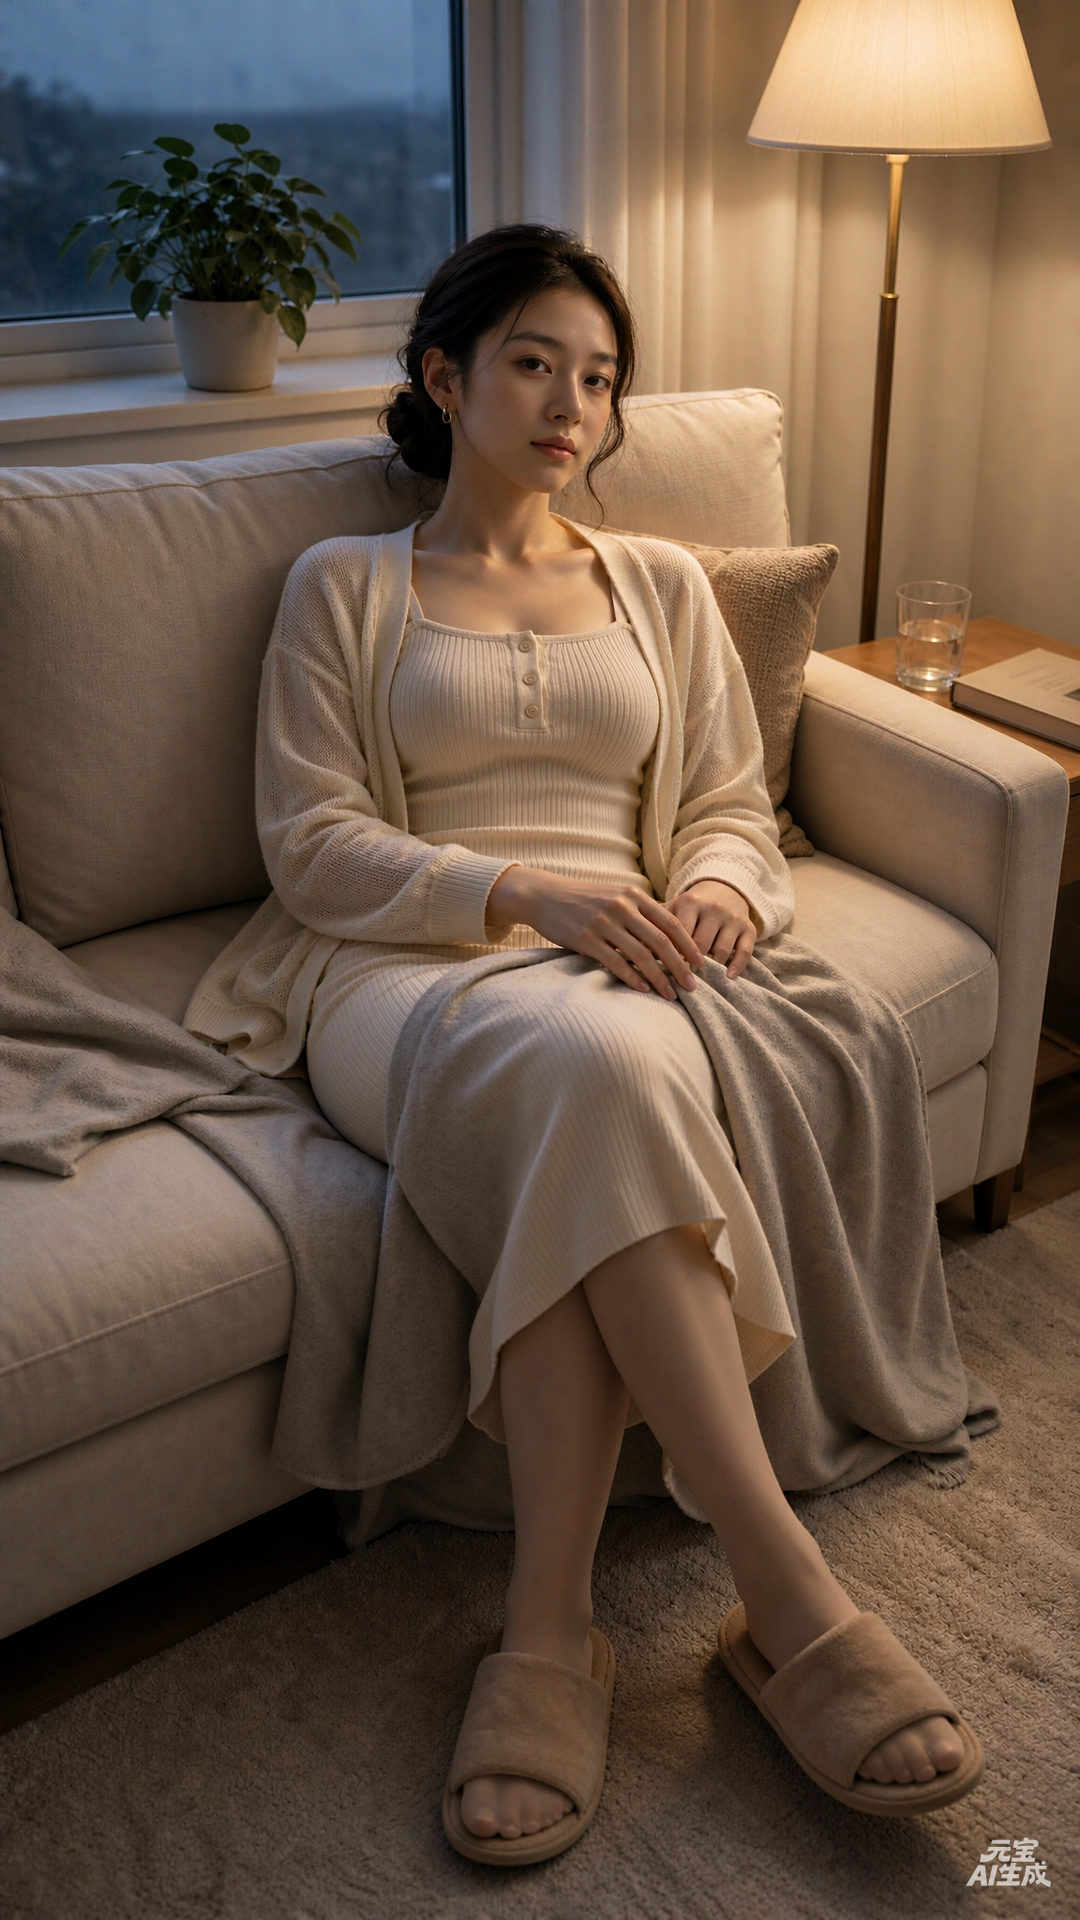
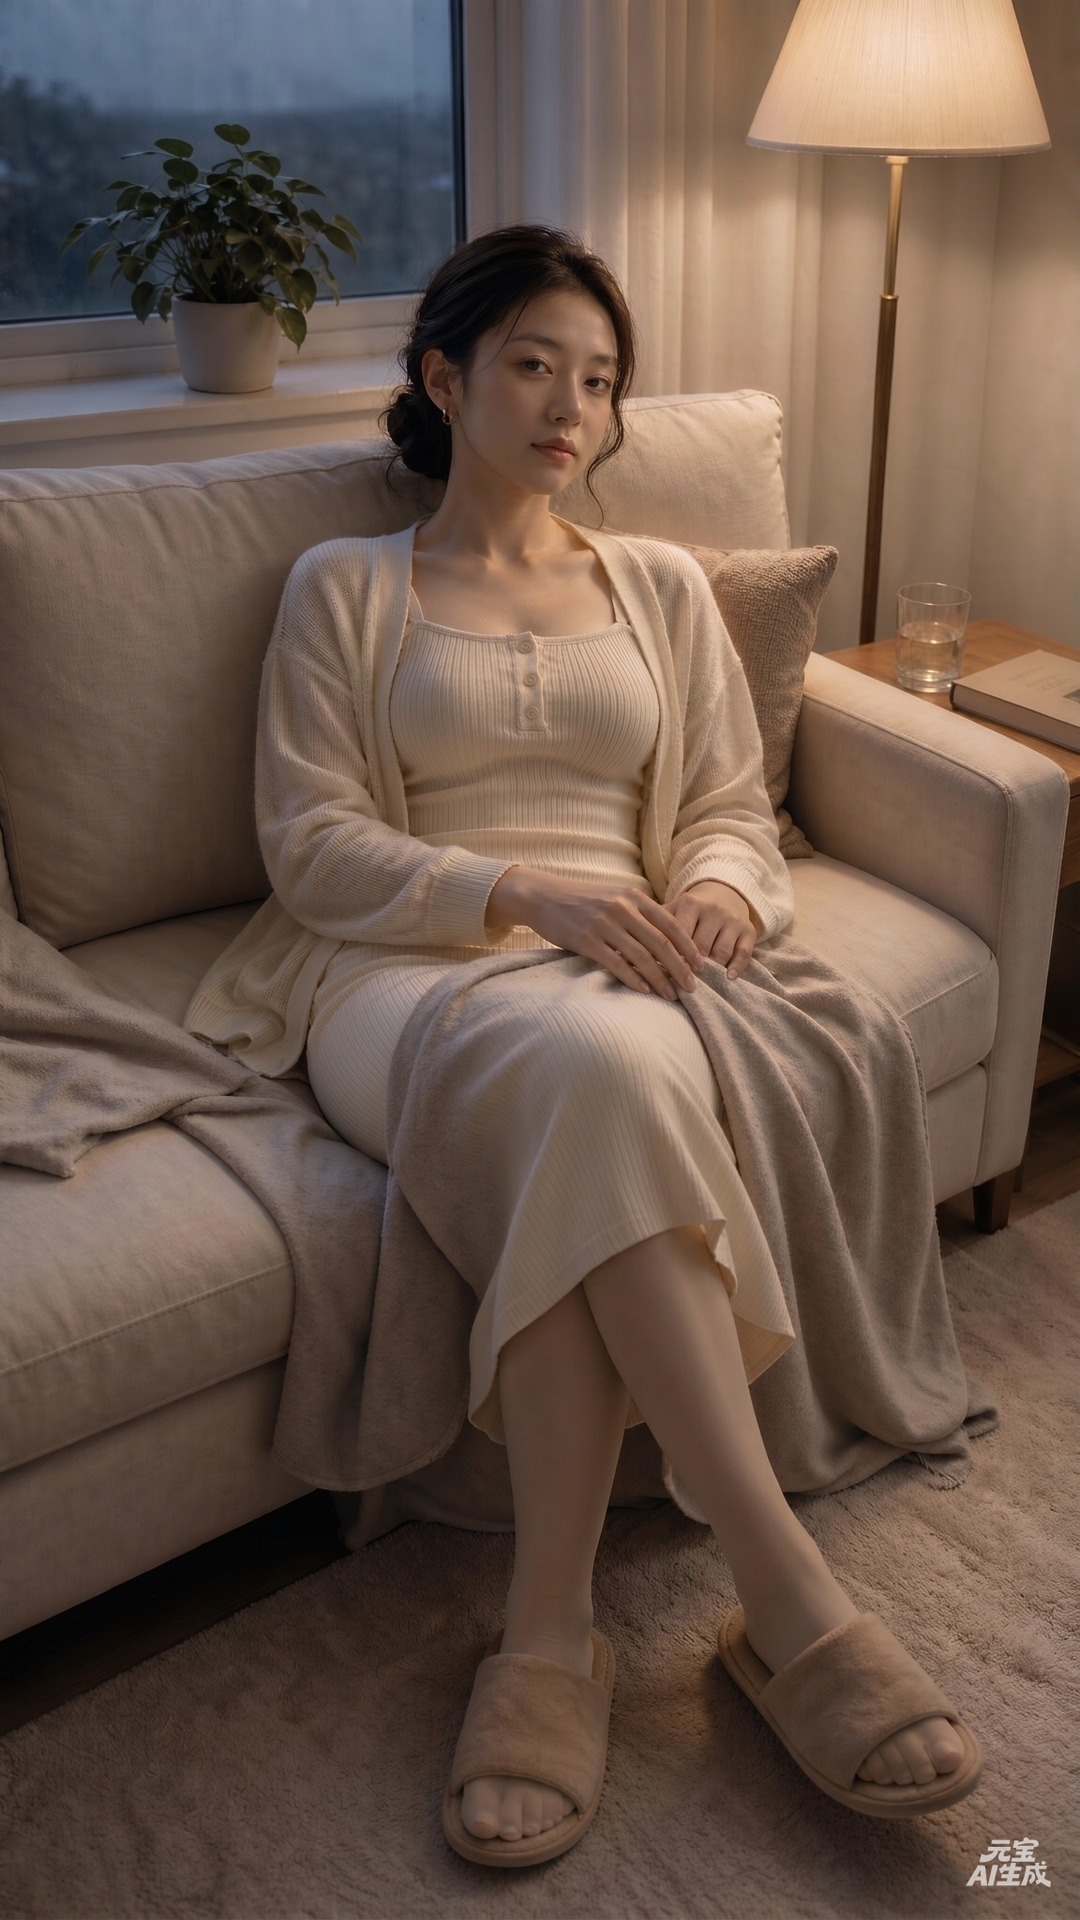
STD-001.2 回扫 18 张 B5-T + R020 04 补销项 | 19图19词+6manifest+6README | source=yuanbao

diff --git a/rounds/20261126j_ferry-lighthouse/04_close.md b/rounds/20261126j_ferry-lighthouse/04_close.md
@@ -15,6 +15,8 @@ ratio: 9:16
 ## 终稿提示词
 
 ```text
+返工复核锚（STD-001.2 B5-T）：丝袜从腿根到脚尖同色连续，脚踝、脚背无横向分界、无袜口、无趾根收边；脚趾由与腿部同色的袜面完整包住，五趾轮廓在袜面里各自分明，露趾鞋与凉鞋前口里袜面一直连到趾尖并与鞋口平顺衔接；四张同一层腿部覆盖、同一双鞋。本张已按此逐字复核并重出。
+
 第一张图定穿搭版型配色面料，第二张图定骨相五官与本轮雾棕齐锁骨松散微卷，第三张图定本张站立骨架与机位（只取低机位的腿线与重心，双手按本文重摆，不取线稿里双手扶腰的动作）；脸、衣、发型、姿势由各自底图承担。本张是对岸芦苇坡上她站定、身子与肩髋朝画面左前的坡顶旧灯塔、机位转到她斜侧约 30 度、只把脸回一半、眼尾从自己左肩底下掠过来落在身后他身上落定不走，右手把透明蓝边托特包贴在右肩侧只露一道蓝边、左手提到腰后高度朝身后他那一侧弯成钩子勾一下指尖。他自己完全在画外、他的手也完全在画外，全画只有她一位清晰成年人物，草径下方空着。
 
 9:16 满幅画面，宽 1080 高 1920，人物与道具铺满整幅，四条边即裁切边。

diff --git a/rounds/20261126j_ferry-lighthouse/02_side.md b/rounds/20261126j_ferry-lighthouse/02_side.md
@@ -15,6 +15,8 @@ ratio: 9:16
 ## 终稿提示词
 
 ```text
+返工复核锚（STD-001.2 B5-T）：丝袜从腿根到脚尖同色连续，脚踝、脚背无横向分界、无袜口、无趾根收边；脚趾由与腿部同色的袜面完整包住，五趾轮廓在袜面里各自分明，露趾鞋与凉鞋前口里袜面一直连到趾尖并与鞋口平顺衔接；四张同一层腿部覆盖、同一双鞋。本张已按此逐字复核并重出。
+
 第一张图定穿搭版型配色面料，第二张图定骨相五官与本轮雾棕锁骨微卷，第三张图定本张侧身站立发丝飘扬骨架与机位（只取侧身站姿的脊线与一前一后两腿，双手按本文重摆）；脸、衣、发型、姿势由各自底图承担。本张是渡轮甲板栏杆边她斜侧约 30 度站着、江风把薄开衫与裙摆往后掀、发丝往后飘，只把脸回一半给他看。他刚从候船长椅站起来还没直完腰，这一眼从他身后侧旁斜着落过去，他自己完全在画外，全画只有她一位清晰成年人物，人在画面里斜着放不居中、膝盖以下裁掉一点。
 
 9:16 满幅画面，宽 1080 高 1920，人物与道具铺满整幅，四条边即裁切边。

diff --git a/rounds/20261126j_ferry-lighthouse/03_seat.md b/rounds/20261126j_ferry-lighthouse/03_seat.md
@@ -15,6 +15,8 @@ ratio: 9:16
 ## 终稿提示词
 
 ```text
+返工复核锚（STD-001.2 B5-T）：丝袜从腿根到脚尖同色连续，脚踝、脚背无横向分界、无袜口、无趾根收边；脚趾由与腿部同色的袜面完整包住，五趾轮廓在袜面里各自分明，露趾鞋与凉鞋前口里袜面一直连到趾尖并与鞋口平顺衔接；四张同一层腿部覆盖、同一双鞋。本张已按此逐字复核并重出。
+
 第一张图定穿搭版型配色面料，第二张图定骨相五官与本轮雾棕锁骨微卷，第三张图定本张扭身站立骨架与机位（只取扭身站姿的肩髋反向与前后脚台阶高差，双手按本文重摆，不取线稿里双臂展开的动作）；脸、衣、发型、姿势由各自底图承担。本张是下船时她在江边石阶上停半步、前脚踩上一级刚好让她从上往下压着他递、身子仍朝石阶上方、只把脸回一半、把一张空白厚纸小方票往身后递，他自己完全在画外、他的手也完全在画外，全画只有她一位清晰成年人物。
 
 9:16 满幅画面，宽 1080 高 1920，人物与道具铺满整幅，四条边即裁切边。

diff --git a/rounds/20261126h_morning-tea-wash/04_close.md b/rounds/20261126h_morning-tea-wash/04_close.md
@@ -15,6 +15,8 @@ ratio: 9:16
 ## 终稿提示词
 
 ```text
+返工复核锚（STD-001.2 B5-T）：丝袜从腿根到脚尖同色连续，脚踝、脚背无横向分界、无袜口、无趾根收边；脚趾由与腿部同色的袜面完整包住，五趾轮廓在袜面里各自分明，露趾鞋与凉鞋前口里袜面一直连到趾尖并与鞋口平顺衔接；四张同一层腿部覆盖、同一双鞋。本张已按此逐字复核并重出。
+
 第一张图定穿搭版型配色面料，第二张图定骨相五官与本轮慵懒低盘发，第三张图定本张姿势骨架与机位；脸、衣、发型、姿势由各自底图承担，第三张图的双手落点按本文重摆；本张是站定、双手齐脸同高把一条浅杏色毛巾按在下半张脸上，两腿站直、不踮脚不仰头、脊线是安静的直线不含后仰、肩线不回转、两肘内收贴肋不外扬、人不迎不避等他先看过来，画顶留给百叶帘缝那一道晨光与毛巾上沿、发顶沉在毛巾下。
 
 9:16 满幅画面，宽 1080 高 1920，人物与道具铺满整幅，四条边即裁切边。

diff --git a/rounds/20261126j_ferry-lighthouse/01_front.md b/rounds/20261126j_ferry-lighthouse/01_front.md
@@ -15,6 +15,8 @@ ratio: 9:16
 ## 终稿提示词
 
 ```text
+返工复核锚（STD-001.2 B5-T）：丝袜从腿根到脚尖同色连续，脚踝、脚背无横向分界、无袜口、无趾根收边；脚趾由与腿部同色的袜面完整包住，五趾轮廓在袜面里各自分明，露趾鞋与凉鞋前口里袜面一直连到趾尖并与鞋口平顺衔接；四张同一层腿部覆盖、同一双鞋。本张已按此逐字复核并重出。
+
 第一张图定穿搭版型配色面料，第二张图定骨相五官与本轮雾棕锁骨微卷，第三张图定本张侧坐伸腿骨架与机位；脸、衣、发型、姿势由各自底图承担，第三张图的双手落点按本文重摆。本张是江边候船亭里她侧坐在旧木长椅上、两腿朝画面右侧伸着、一侧手肘往后撑住看江面，画面左侧留一段晒白的空椅面与旧漆磨痕，他坐的位置空着、他自己完全在画外，全画只有她一位清晰成年人物。
 
 9:16 满幅画面，宽 1080 高 1920，人物与道具铺满整幅，四条边即裁切边。

diff --git a/rounds/20261126h_morning-tea-wash/03_seat.md b/rounds/20261126h_morning-tea-wash/03_seat.md
@@ -15,6 +15,8 @@ ratio: 9:16
 ## 终稿提示词
 
 ```text
+返工复核锚（STD-001.2 B5-T）：丝袜从腿根到脚尖同色连续，脚踝、脚背无横向分界、无袜口、无趾根收边；脚趾由与腿部同色的袜面完整包住，五趾轮廓在袜面里各自分明，露趾鞋与凉鞋前口里袜面一直连到趾尖并与鞋口平顺衔接；四张同一层腿部覆盖、同一双鞋。本张已按此逐字复核并重出。
+
 第一张图定穿搭版型配色面料，第二张图定骨相五官与本轮慵懒低盘发，第三张图定本张姿势骨架与机位；脸、衣、发型、姿势由各自底图承担，第三张图的双手落点按本文重摆；本张是站立俯身对着浅盆洗头、洗到一半，两腿站直、膝不弯不跪，不是拢头发回头看、不是抱头摆拍。
 
 9:16 满幅画面，宽 1080 高 1920，人物与道具铺满整幅，四条边即裁切边。

diff --git a/rounds/20261126t_new-phone-morning/04_close.md b/rounds/20261126t_new-phone-morning/04_close.md
@@ -15,6 +15,8 @@ ratio: 9:16
 ## 终稿提示词
 
 ```text
+返工复核锚（STD-001.2 补销项）：脚上两只奶白软底绒拖、金扣凉鞋只收进柜影里露一只鞋尖；全画只一部正面整面亮屏手机、斜着顶到画框下沿；画顶裁到眉骨以上、只留眼尾到嘴角那一线；24h 奶白菱格提花连裤丝袜整段连包到脚趾、脚背连进绒拖鞋口。
+
 返工复核锚：全画只一部手机，正面整面亮屏朝向画外他那边、举到画框下沿前景、屏光清亮；两只奶白软底绒拖都在脚上，奶白厚底一字带金扣凉鞋收进玄关矮柜下层阴影里只露一只鞋尖；整张脸只留眼尾到嘴角那一线、画顶裁到眉骨以上；画底是叠收的腿、两只绒拖与奶白短绒地毯的软褶；24h 奶白菱格提花连裤丝袜整段连包到脚趾。
 
 第4张 · 他凑到近前、从膝头高度略仰隔 0.3 米看她

diff --git a/rounds/20261126h_morning-tea-wash/02_side.md b/rounds/20261126h_morning-tea-wash/02_side.md
@@ -15,6 +15,8 @@ ratio: 9:16
 ## 终稿提示词
 
 ```text
+返工复核锚（STD-001.2 B5-T）：丝袜从腿根到脚尖同色连续，脚踝、脚背无横向分界、无袜口、无趾根收边；脚趾由与腿部同色的袜面完整包住，五趾轮廓在袜面里各自分明，露趾鞋与凉鞋前口里袜面一直连到趾尖并与鞋口平顺衔接；四张同一层腿部覆盖、同一双鞋。本张已按此逐字复核并重出。
+
 第一张图定穿搭版型配色面料，第二张图定骨相五官与本轮慵懒低盘发，第三张图定本张姿势骨架与机位；脸、衣、发型、姿势由各自底图承担，第三张图的双手落点按本文重摆；本张是站立提壶，两腿站直、一臂上举一臂前扶。
 
 9:16 满幅画面，宽 1080 高 1920，人物与道具铺满整幅，四条边即裁切边。

diff --git a/rounds/20261126f_fresh-window-care/01_front.md b/rounds/20261126f_fresh-window-care/01_front.md
@@ -15,6 +15,8 @@ ratio: 9:16
 ## 终稿提示词
 
 ```text
+返工复核锚（STD-001.2 B5-T）：丝袜从腿根到脚尖同色连续，脚踝、脚背无横向分界、无袜口、无趾根收边；脚趾由与腿部同色的袜面完整包住，五趾轮廓在袜面里各自分明，露趾鞋与凉鞋前口里袜面一直连到趾尖并与鞋口平顺衔接；四张同一层腿部覆盖、同一双鞋。本张已按此逐字复核并重出。
+
 第一张图定穿搭版型配色面料，第二张图定骨相五官与本轮栗棕蓬松披肩大波浪，第三张图定本张姿势骨架与机位；脸、衣、发型、姿势由各自底图承担。
 
 9:16 满幅画面，宽 1080 高 1920，人物与道具铺满整幅，四条边即裁切边。

diff --git a/rounds/20261126f_fresh-window-care/02_side.md b/rounds/20261126f_fresh-window-care/02_side.md
@@ -15,6 +15,8 @@ ratio: 9:16
 ## 终稿提示词
 
 ```text
+返工复核锚（STD-001.2 B5-T）：丝袜从腿根到脚尖同色连续，脚踝、脚背无横向分界、无袜口、无趾根收边；脚趾由与腿部同色的袜面完整包住，五趾轮廓在袜面里各自分明，露趾鞋与凉鞋前口里袜面一直连到趾尖并与鞋口平顺衔接；四张同一层腿部覆盖、同一双鞋。本张已按此逐字复核并重出。
+
 第一张图定穿搭版型配色面料，第二张图定骨相五官与本轮栗棕蓬松披肩大波浪，第三张图定本张姿势骨架与机位；脸、衣、发型、姿势由各自底图承担。
 
 9:16 满幅画面，宽 1080 高 1920，人物与道具铺满整幅，四条边即裁切边。

diff --git a/rounds/20261126f_fresh-window-care/03_seat.md b/rounds/20261126f_fresh-window-care/03_seat.md
@@ -15,6 +15,8 @@ ratio: 9:16
 ## 终稿提示词
 
 ```text
+返工复核锚（STD-001.2 B5-T）：丝袜从腿根到脚尖同色连续，脚踝、脚背无横向分界、无袜口、无趾根收边；脚趾由与腿部同色的袜面完整包住，五趾轮廓在袜面里各自分明，露趾鞋与凉鞋前口里袜面一直连到趾尖并与鞋口平顺衔接；四张同一层腿部覆盖、同一双鞋。本张已按此逐字复核并重出。
+
 第一张图定穿搭版型配色面料，第二张图定骨相五官与本轮栗棕蓬松披肩大波浪，第三张图定本张姿势骨架与机位；脸、衣、发型、姿势由各自底图承担。
 
 9:16 满幅画面，宽 1080 高 1920，人物与道具铺满整幅，四条边即裁切边。

diff --git a/rounds/20261126e_tired-sofa-evening/01_front.md b/rounds/20261126e_tired-sofa-evening/01_front.md
@@ -15,6 +15,8 @@ ratio: 9:16
 ## 终稿提示词
 
 ```text
+返工复核锚（STD-001.2 B5-T）：丝袜从腿根到脚尖同色连续，脚踝、脚背无横向分界、无袜口、无趾根收边；脚趾由与腿部同色的袜面完整包住，五趾轮廓在袜面里各自分明，露趾鞋与凉鞋前口里袜面一直连到趾尖并与鞋口平顺衔接；四张同一层腿部覆盖、同一双鞋。本张已按此逐字复核并重出。
+
 第一张图定穿搭版型配色面料，第二张图定骨相五官与本轮慵懒低盘发，第三张图定本张姿势骨架与机位；脸、衣、发型、姿势由各自底图承担。
 
 9:16 满幅画面，宽 1080 高 1920，人物与道具铺满整幅，四条边即裁切边。
